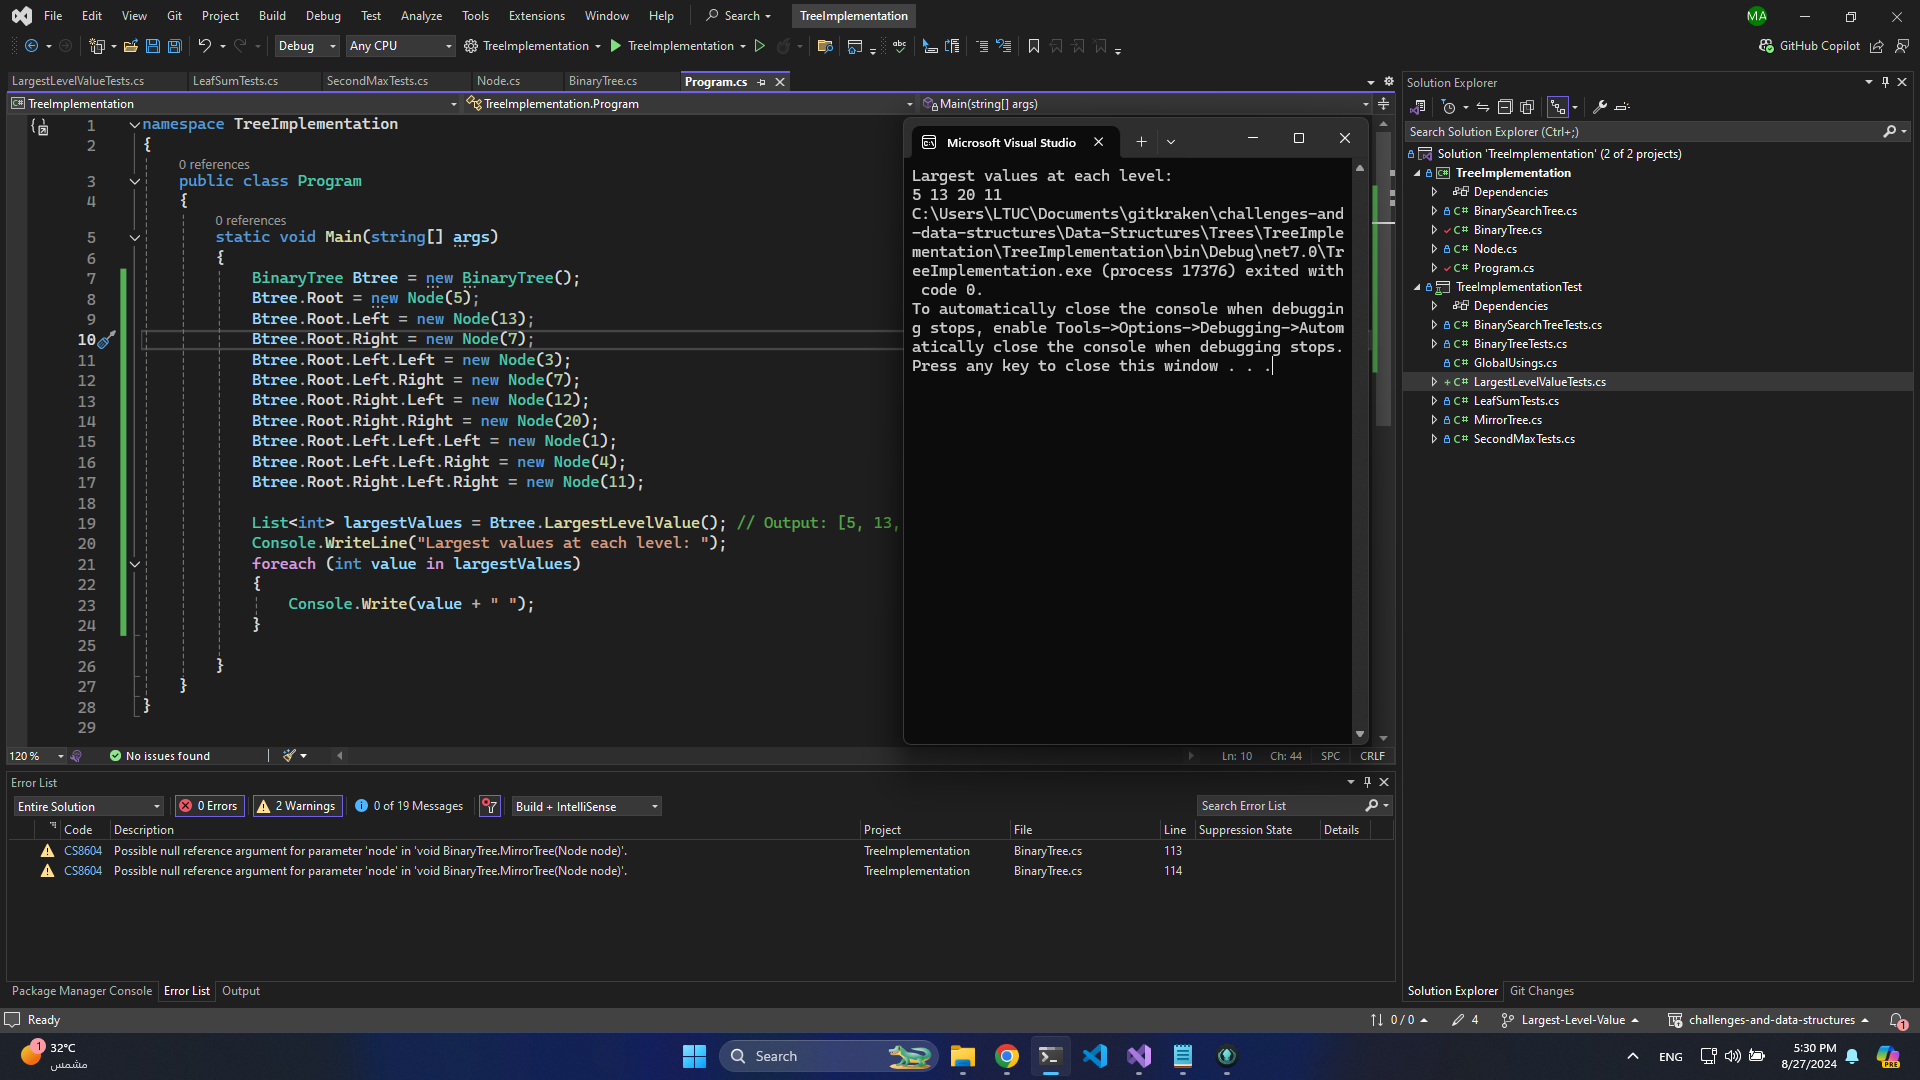
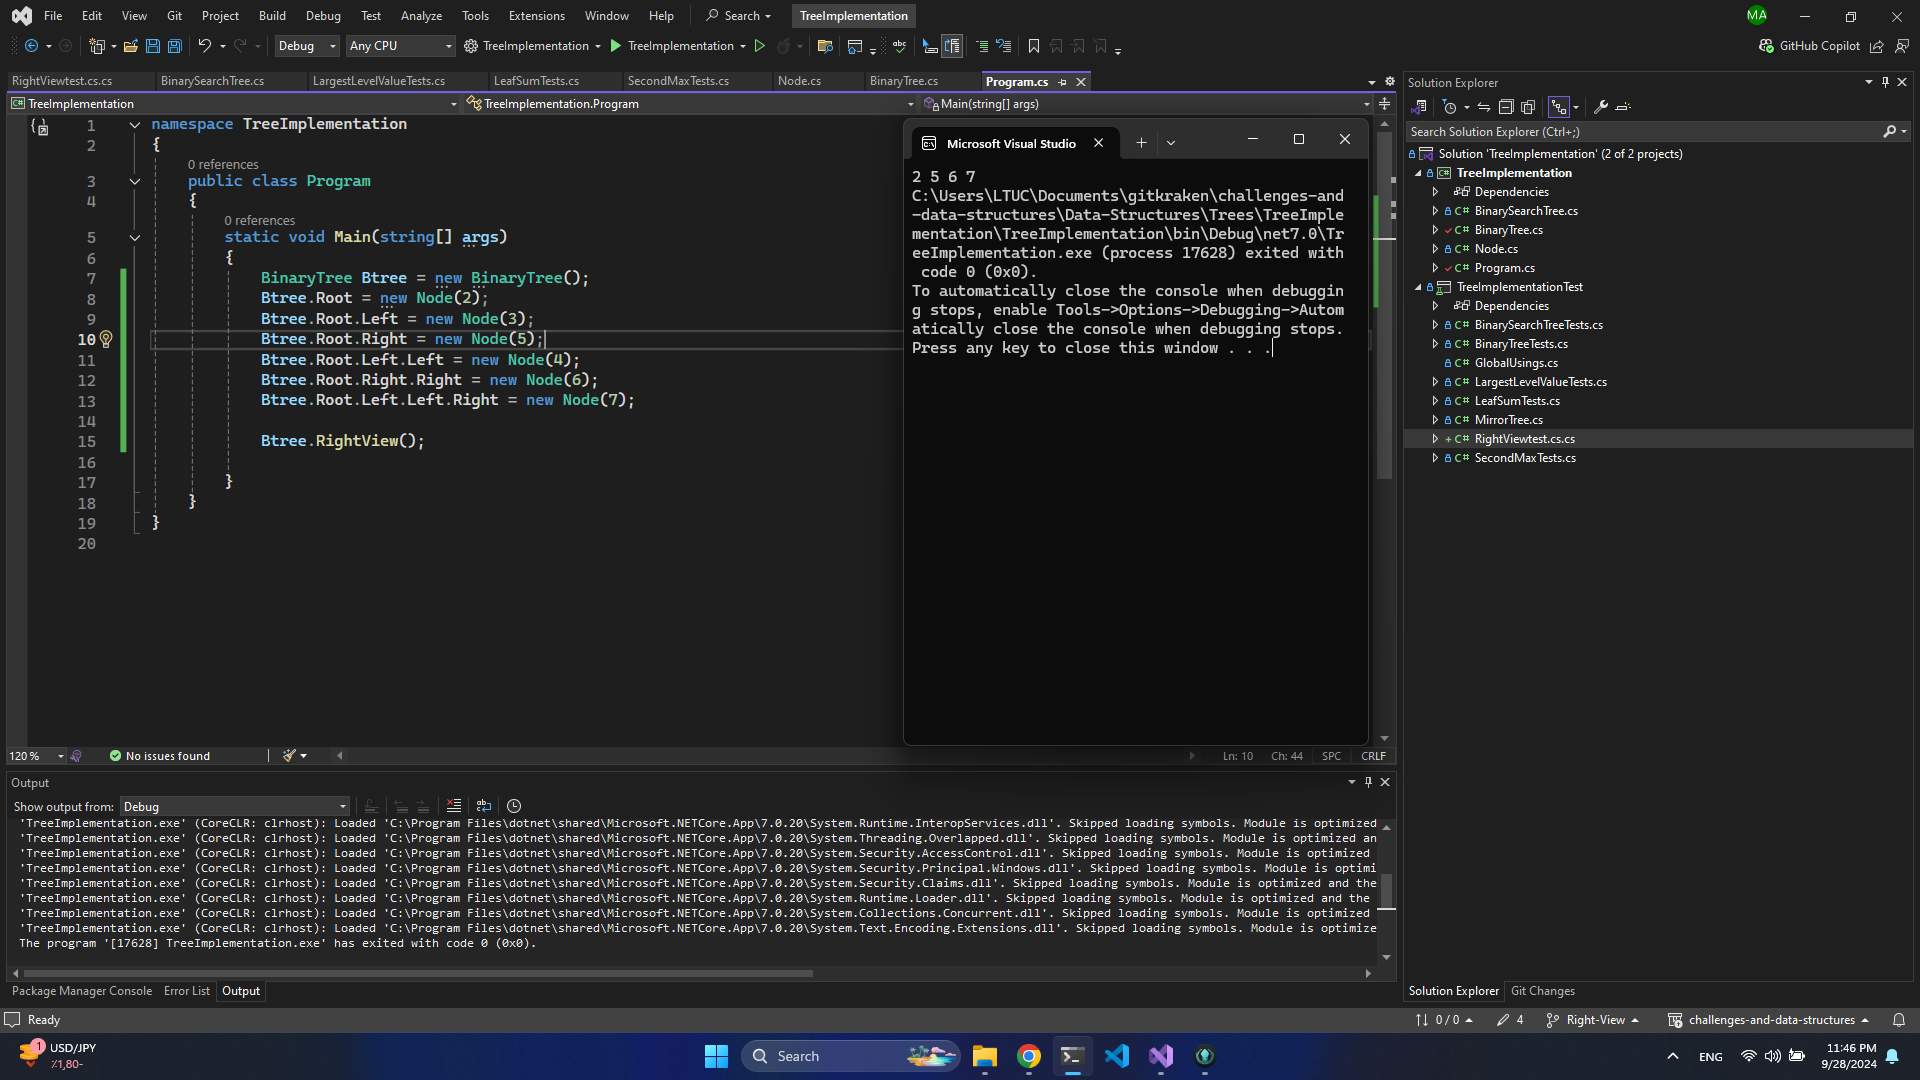
Binary Tree - Print Right View

diff --git a/Data-Structures/Trees/TreeImplementation/TreeImplementationTest/RightViewtest.cs.cs b/Data-Structures/Trees/TreeImplementation/TreeImplementationTest/RightViewtest.cs.cs
@@ -1,0 +1,55 @@
+using System;
+using System.Collections.Generic;
+using System.Linq;
+using System.Text;
+using System.Threading.Tasks;
+using TreeImplementation;
+
+namespace TreeImplementationTest
+{
+    public class RightViewtest
+    {
+        [Fact]
+        public void RightViewTest()
+        {
+            // Arrange
+            BinaryTree Btree = new BinaryTree();
+            Btree.Root = new Node(2);
+            Btree.Root.Left = new Node(3);
+            Btree.Root.Right = new Node(5);
+            Btree.Root.Left.Left = new Node(4);
+            Btree.Root.Right.Right = new Node(6);
+            Btree.Root.Left.Left.Right = new Node(7);
+
+            // Act
+            using (StringWriter sw = new StringWriter())
+            {
+                Console.SetOut(sw);
+                Btree.RightView();
+                string expected = "2 5 6 7 ";
+                // Assert
+                Assert.Equal(expected, sw.ToString());
+            }
+        }
+        [Fact]
+        public void RightViewTestTreeOnlyRightNodes()
+        {
+            // Arrange
+            BinaryTree Btree = new BinaryTree();
+            Btree.Root = new Node(2);
+            Btree.Root.Right = new Node(5);
+            Btree.Root.Right.Right = new Node(6);
+            Btree.Root.Right.Right.Right = new Node(7);
+
+            // Act
+            using (StringWriter sw = new StringWriter())
+            {
+                Console.SetOut(sw);
+                Btree.RightView();
+                string expected = "2 5 6 7 ";
+                // Assert
+                Assert.Equal(expected, sw.ToString());
+            }
+        }
+    }
+}

diff --git a/Data-Structures/Trees/TreeImplementation/TreeImplementation/Program.cs b/Data-Structures/Trees/TreeImplementation/TreeImplementation/Program.cs
@@ -5,23 +5,14 @@
         static void Main(string[] args)
         {
             BinaryTree Btree = new BinaryTree();
-            Btree.Root = new Node(5);
-            Btree.Root.Left = new Node(13);
-            Btree.Root.Right = new Node(7);
-            Btree.Root.Left.Left = new Node(3);
-            Btree.Root.Left.Right = new Node(7);
-            Btree.Root.Right.Left = new Node(12);
-            Btree.Root.Right.Right = new Node(20);
-            Btree.Root.Left.Left.Left = new Node(1);
-            Btree.Root.Left.Left.Right = new Node(4);
-            Btree.Root.Right.Left.Right = new Node(11);
+            Btree.Root = new Node(2);
+            Btree.Root.Left = new Node(3);
+            Btree.Root.Right = new Node(5);
+            Btree.Root.Left.Left = new Node(4);
+            Btree.Root.Right.Right = new Node(6);
+            Btree.Root.Left.Left.Right = new Node(7);
 
-            List<int> largestValues = Btree.LargestLevelValue(); // Output: [5, 13, 20, 11]
-            Console.WriteLine("Largest values at each level: ");
-            foreach (int value in largestValues)
-            {
-                Console.Write(value + " ");
-            }
+            Btree.RightView();
 
         }
     }

diff --git a/Data-Structures/Trees/TreeImplementation/TreeImplementation/BinaryTree.cs b/Data-Structures/Trees/TreeImplementation/TreeImplementation/BinaryTree.cs
@@ -222,5 +222,36 @@ namespace TreeImplementation
                 Print(node.Left, level + 1, false);
             }
         }
+        public void RightView()
+        {
+            if (Root == null)
+            {
+                Console.WriteLine("Tree is empty.");
+                return;
+            }
+
+            Queue<Node> queue = new Queue<Node>();
+            queue.Enqueue(Root);
+
+            while (queue.Count > 0)
+            {
+                int levelSize = queue.Count;
+
+                for (int i = 0; i < levelSize; i++)
+                {
+                    Node node = queue.Dequeue();
+
+                    if (i == levelSize - 1)
+                    {
+                        Console.Write(node.Value + " ");
+                    }
+
+                    if (node.Left != null)
+                        queue.Enqueue(node.Left);
+                    if (node.Right != null)
+                        queue.Enqueue(node.Right);
+                }
+            }
+        }
     }
 }

diff --git a/README.md b/README.md
@@ -81,3 +81,7 @@
 ### Linked List - Rotate by K
 
 ![Rotate by K](Data-Structures/Linked-List-Implementation/Image6.jpg)
+
+### Binary Tree - Print Right View
+
+![Print Right View](Data-Structures/Trees/Image7.jpg)
